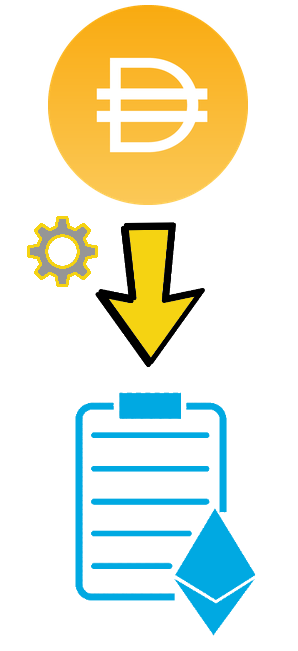
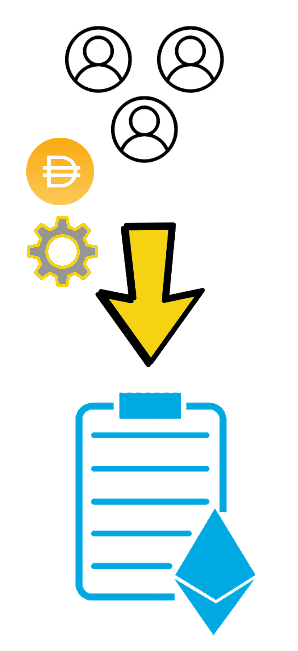
Add more slides to presentation

Changed region(s): [[0.0906, 0.0, 0.8456, 0.3379]]

diff --git a/slides/slides.md b/slides/slides.md
@@ -8,20 +8,48 @@ title: "Soleil project overview"
 ---
 
 <div style="display: flex; flex-direction: column; align-items: center;">
-<img src="logo.png" style="background:transparent; border:none;"/>
+<img src="logo.png" style="background:transparent; border:none; box-shadow: none;"/>
 <div style="display: flex; align-items: center;">
-<span class="fragment">(💰🔀&nbsp;</span>
-<span class="fragment">+&nbsp;📈🔍)&nbsp;</span>
-<span class="fragment">=&nbsp;🧯💦🌍🔥</span>
+<span class="fragment">🦸♀🌍🦸♂&nbsp;=</span>
+<span class="fragment">&nbsp;💰🔀&nbsp;</span>
+<span class="fragment">+&nbsp;📈🔍&nbsp;</span>
 </div>
 </div>
 
 
 ---
 
+DAI submitted to smart contract and distribution schedule set by user
+
+<img src="1.png" style="background:transparent; border:none;  box-shadow: none; height: 400px" />
+
+<span class="fragment">
+
 > "I would like to donate 200 DAI to solar panel owners gradually over the next 30 days."
 
-<span class="fragment"><img src="1.png" style="background:transparent; border:none; height: 400px" /></span>
+</span>
+
+--
+
+DAI scheduled to be distributed that day becomes claimable by sites based on the amount of solar energy generated by them on that day
+
+<img src="1_1.png" style="background:transparent; border:none;  box-shadow: none; height: 400px" />
+
+--
+
+As a reward for helping to fight climate change users are rewarded with SLL tokens
+
+<img src="1_2.png" style="background:transparent; border:none;  box-shadow: none; height: 400px" />
+
+--
+
+An economy can be grown around the SLL token by anyone who wishes to fight climate change by supporting the growth of the Soleil platform
+
+<img src="slltoken.png" style="background:transparent; border:none;  box-shadow: none; height: 400px" />
+
+*   Services
+*   NFT rewards
+*   More...
 
 ---
 
